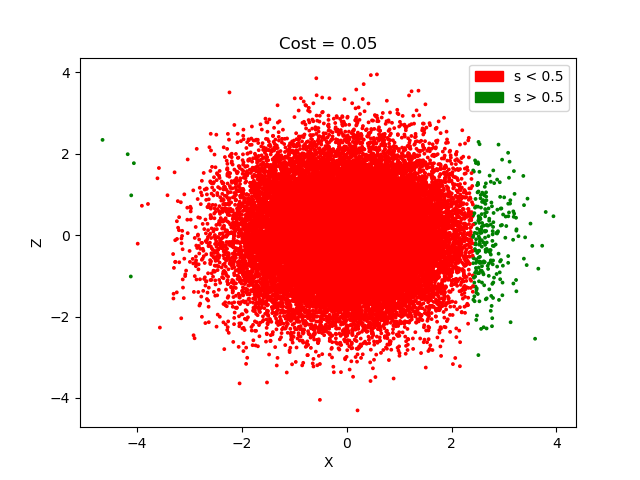
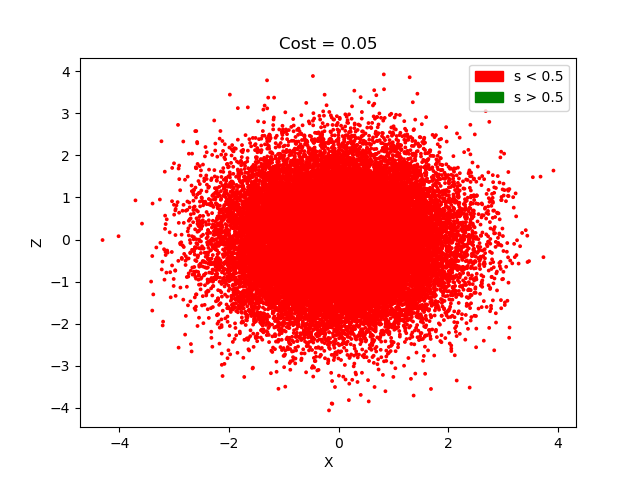
hi

diff --git a/synthetic.py b/synthetic.py
@@ -8,13 +8,36 @@ import numpy as np
 # y2 = MLP()
 # s = MLP()
 
+class EarlyStopper:
+    def __init__(self, patience=1, min_delta=0):
+        self.patience = patience
+        self.min_delta = min_delta
+        self.counter = 0
+        self.min_validation_loss = float('inf')
+
+    def early_stop(self, validation_loss):
+        if validation_loss < self.min_validation_loss:
+            self.min_validation_loss = validation_loss
+            self.counter = 0
+        elif validation_loss > (self.min_validation_loss + self.min_delta):
+            self.counter += 1
+            if self.counter >= self.patience:
+                return True
+        return False
+
+
+
 
 
 class linear(torch.nn.Module):
     def __init__(self, feat_dim=1, out_dim=2, hidden_dim=100):
         super(linear, self).__init__()
         self.hidden_dim=hidden_dim
-        self.y1 = torch.nn.Linear(feat_dim, out_dim + 1)
+        self.y1 = torch.nn.Linear(feat_dim, out_dim)
+
+        self.y2 = torch.nn.Linear(feat_dim, out_dim)
+
+        self.s = torch.nn.Linear(feat_dim, out_dim)
 
         # self.y1_in = torch.nn.Linear(feat_dim, hidden_dim)
         # self.y1_out = torch.nn.Linear(hidden_dim, out_dim+1)
@@ -29,23 +52,25 @@ class linear(torch.nn.Module):
         self.relu = torch.nn.ReLU()
 
         self.s_in = torch.nn.Linear(feat_dim, hidden_dim)
-        self.s_out = torch.nn.Linear(hidden_dim, 1)
+        self.s_out = torch.nn.Linear(hidden_dim, out_dim)
 
-        self.y2 = torch.nn.Linear(feat_dim*2, out_dim)
-        self.y2 = torch.nn.Linear(feat_dim, out_dim)
+        
 
         self.Softmax = torch.nn.Softmax()
     def forward(self, x,z):
-        # y1 = self.Softmax(self.y1(x))
-        # # y2 = self.Softmax(self.y2(torch.concatenate((x,z), dim=1)))
-        # y2 = self.Softmax(self.y2(x+z))
+        
 
         y1 = self.Softmax(self.y1_out(self.relu(self.y1_in(x))))
         y2 = self.Softmax(self.y2_out(self.relu(self.y2_in(x+z))))
+        s = self.Softmax(self.s_out(self.relu(self.s_in(x))))
+
+        # y1 = self.Softmax(self.y1(x))
+        # y2 = self.Softmax(self.y2(x+z))
+        # s = self.Softmax(self.s(x))
 
         # s = y1[:,-1].reshape((len(y1), 1))
         # y1 = y1[:, :-1]
-        s = self.relu(self.s_out(self.relu(self.s_in(x))))
+        
         # print(y1.shape)
         return y1, y2, s
 
@@ -321,13 +346,17 @@ def exp(train_d=32*20, test_d=32*20, cost=0.01):
 
     epoch=1
     batch_size=32
-    optimizer = torch.optim.Adam(jm.parameters(), lr=0.0001)
-    scheduler = torch.optim.lr_scheduler.ExponentialLR(optimizer, gamma=0.99)
+    optimizer = torch.optim.Adam(jm.parameters(), lr=0.1)
+    scheduler = torch.optim.lr_scheduler.ExponentialLR(optimizer, gamma=0.9)
 
     # breakpoint()
     # start_params = list(y1.parameters().clone()) + list(y2.parameters().clone())
     running_loss = 0
     from tqdm import tqdm
+    last_3_valid = torch.zeros(3)
+    early_stopper = EarlyStopper(patience=50, min_delta=5)
+
+    
     for i in range(epoch):
         for batch in tqdm(range(batch_size, train_d+batch_size, batch_size)):
 
@@ -348,13 +377,21 @@ def exp(train_d=32*20, test_d=32*20, cost=0.01):
             optimizer.step()
 
             running_loss += loss.item()
-            if batch % 50 == 0:
+            if batch % batch_size*10 == 0:
                 # last_loss = running_loss / 320 # loss per batch
                 # print('  batch {} loss: {}'.format(batch/batch_size, loss))
               
                 valid, ___ = eval(x_val[batch-batch_size:batch], z_val[batch-batch_size:batch], y_val[batch-batch_size:batch], cost, jm,None)
                 # print(valid)
-            # scheduler.step()
+                x_batch = x_val[batch-batch_size:batch]
+                z_batch = z_val[batch-batch_size:batch]
+                y_batch = y_val[batch-batch_size:batch]
+                valid_loss = loss = loss_fn(x_batch, z_batch, y_batch, cost, jm, None, CE=False)
+                if early_stopper.early_stop(valid_loss):             
+                    print('early stopping')
+                    break
+
+                scheduler.step()
     valid, ___ = eval(x_val[batch-batch_size:batch], z_val[batch-batch_size:batch], y_val[batch-batch_size:batch], cost, jm,None)
 
     result = {}
@@ -406,7 +443,8 @@ def exp(train_d=32*20, test_d=32*20, cost=0.01):
 # costs = [0, 0, 0,0,0]
 # costs = [10000, 10000, 10000,10000]
 # costs = np.arange(0, 0.1, 0.01)
-costs = [0, 0.05, 0.1, 1, 1000]
+# costs = [0, 0.05, 0.1, 1, 1000]
+costs = [0, 0.001, 0.002, 1]
 # costs = np.arange(0, 1, 0.2)
 num_accept = []
 num_reject = []
@@ -492,13 +530,13 @@ ax1.set_title("Number of Y1-Rejects (% of all predictions) vs Cost ")
 ax1.set_ylim(0, 1)
 
 
-for i in range(len(reject_acc)):
-    # if i != 0 and np.abs(num_reject[i-1]-num_reject[i]) < 0.1:
-    #     plt.text(costs[i]+0.05, num_reject[i]+0.05, reject_acc[i])
-    # else:
-    #     plt.text(costs[i], num_reject[i], reject_acc[i])
-    plt.text(costs[i], num_reject[i], reject_acc[i])
-plt.text(6, 0.7, "Note: we show at each point \n [Correct Rejects]/[Incorrect rejects] \n based on whether Y1 was correct")
+# for i in range(len(reject_acc)):
+#     # if i != 0 and np.abs(num_reject[i-1]-num_reject[i]) < 0.1:
+#     #     plt.text(costs[i]+0.05, num_reject[i]+0.05, reject_acc[i])
+#     # else:
+#     #     plt.text(costs[i], num_reject[i], reject_acc[i])
+#     plt.text(costs[i], num_reject[i], reject_acc[i])
+# plt.text(6, 0.7, "Note: we show at each point \n [Correct Rejects]/[Incorrect rejects] \n based on whether Y1 was correct")
 # d = 1000
 # x = torch.normal(mean=torch.zeros((d,1)), std=torch.ones((d,1)))
 # z = torch.normal(mean=torch.zeros((d,1)), std=torch.ones((d,1)))
